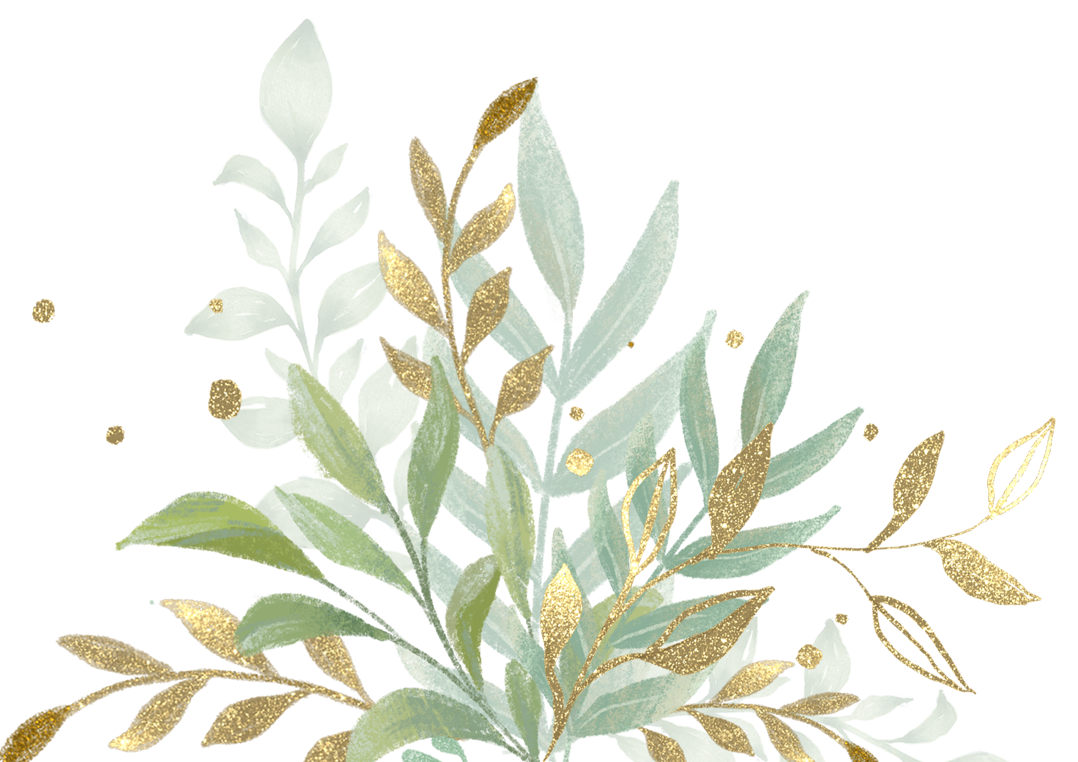
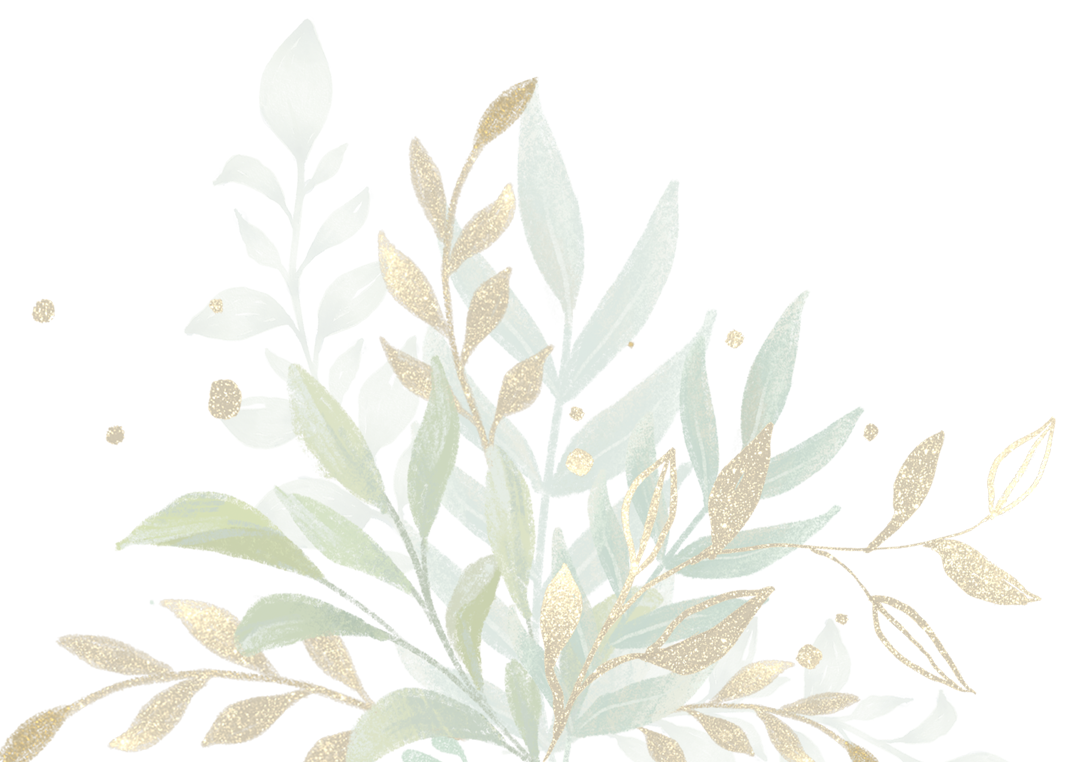
updated zaki card wedding

diff --git a/zaki_wedding/static/assets/css/cover.css b/zaki_wedding/static/assets/css/cover.css
@@ -23,6 +23,7 @@ a:hover {
 
 .para{
   font-family: Georgia, 'Times New Roman', Times, serif;
+  font-style: italic;
 }
 /* Custom default button */
 .btn-secondary,
@@ -49,7 +50,7 @@ html,
 body {
   height: 100%;
   /* padding:10px; */
-  background-color: #A6B697;
+  /* background-color: #A6B697; */
   background-image: url(../img/trees.png);
   background-size:contain;
   background-repeat: no-repeat;
@@ -75,10 +76,10 @@ body {
   -ms-flex-pack: center;
   -webkit-box-pack: center;
   justify-content: center;
-  color: #fff;
-  
-  text-shadow: 0 .05rem .1rem rgba(0, 0, 0, .5);
-  box-shadow:inset 0 0 5rem rgba(122,135,111, .5);
+  /* color: #fff; */
+  color: #444;
+  /* text-shadow: 0 .05rem .1rem rgba(0, 0, 0, .95); */
+  box-shadow:inset 0 5rem 5rem rgba(122,135,111, .75);
 }
 
 .corner {
@@ -127,7 +128,8 @@ body {
 
 .masthead-brand {
   background: rgba(255, 255, 255, .2);
-  backdrop-filter: blur(5px);
+  backdrop-filter: blur(10px);
+  -webkit-backdrop-filter: blur(10px);
   margin-bottom: 0;
   margin-right: -16px;
   margin-left: -16px;

diff --git a/Wedding/settings.py b/Wedding/settings.py
@@ -26,7 +26,7 @@ SECRET_KEY = '^#0c=h&#j$myms5acj$4l0v6ppc74^4+yj^hme9_=+ndjr4u6v'
 # SECURITY WARNING: don't run with debug turned on in production!
 DEBUG = False
 
-ALLOWED_HOSTS = ['77.68.97.43','127.0.0.1','192.168.100.16','dalilahandzaki.ddns.net']
+ALLOWED_HOSTS = ['77.68.97.43','127.0.0.1','192.168.100.16','dalilahandzaki.ddns.net','192.168.68.103']
 
 
 # Application definition
